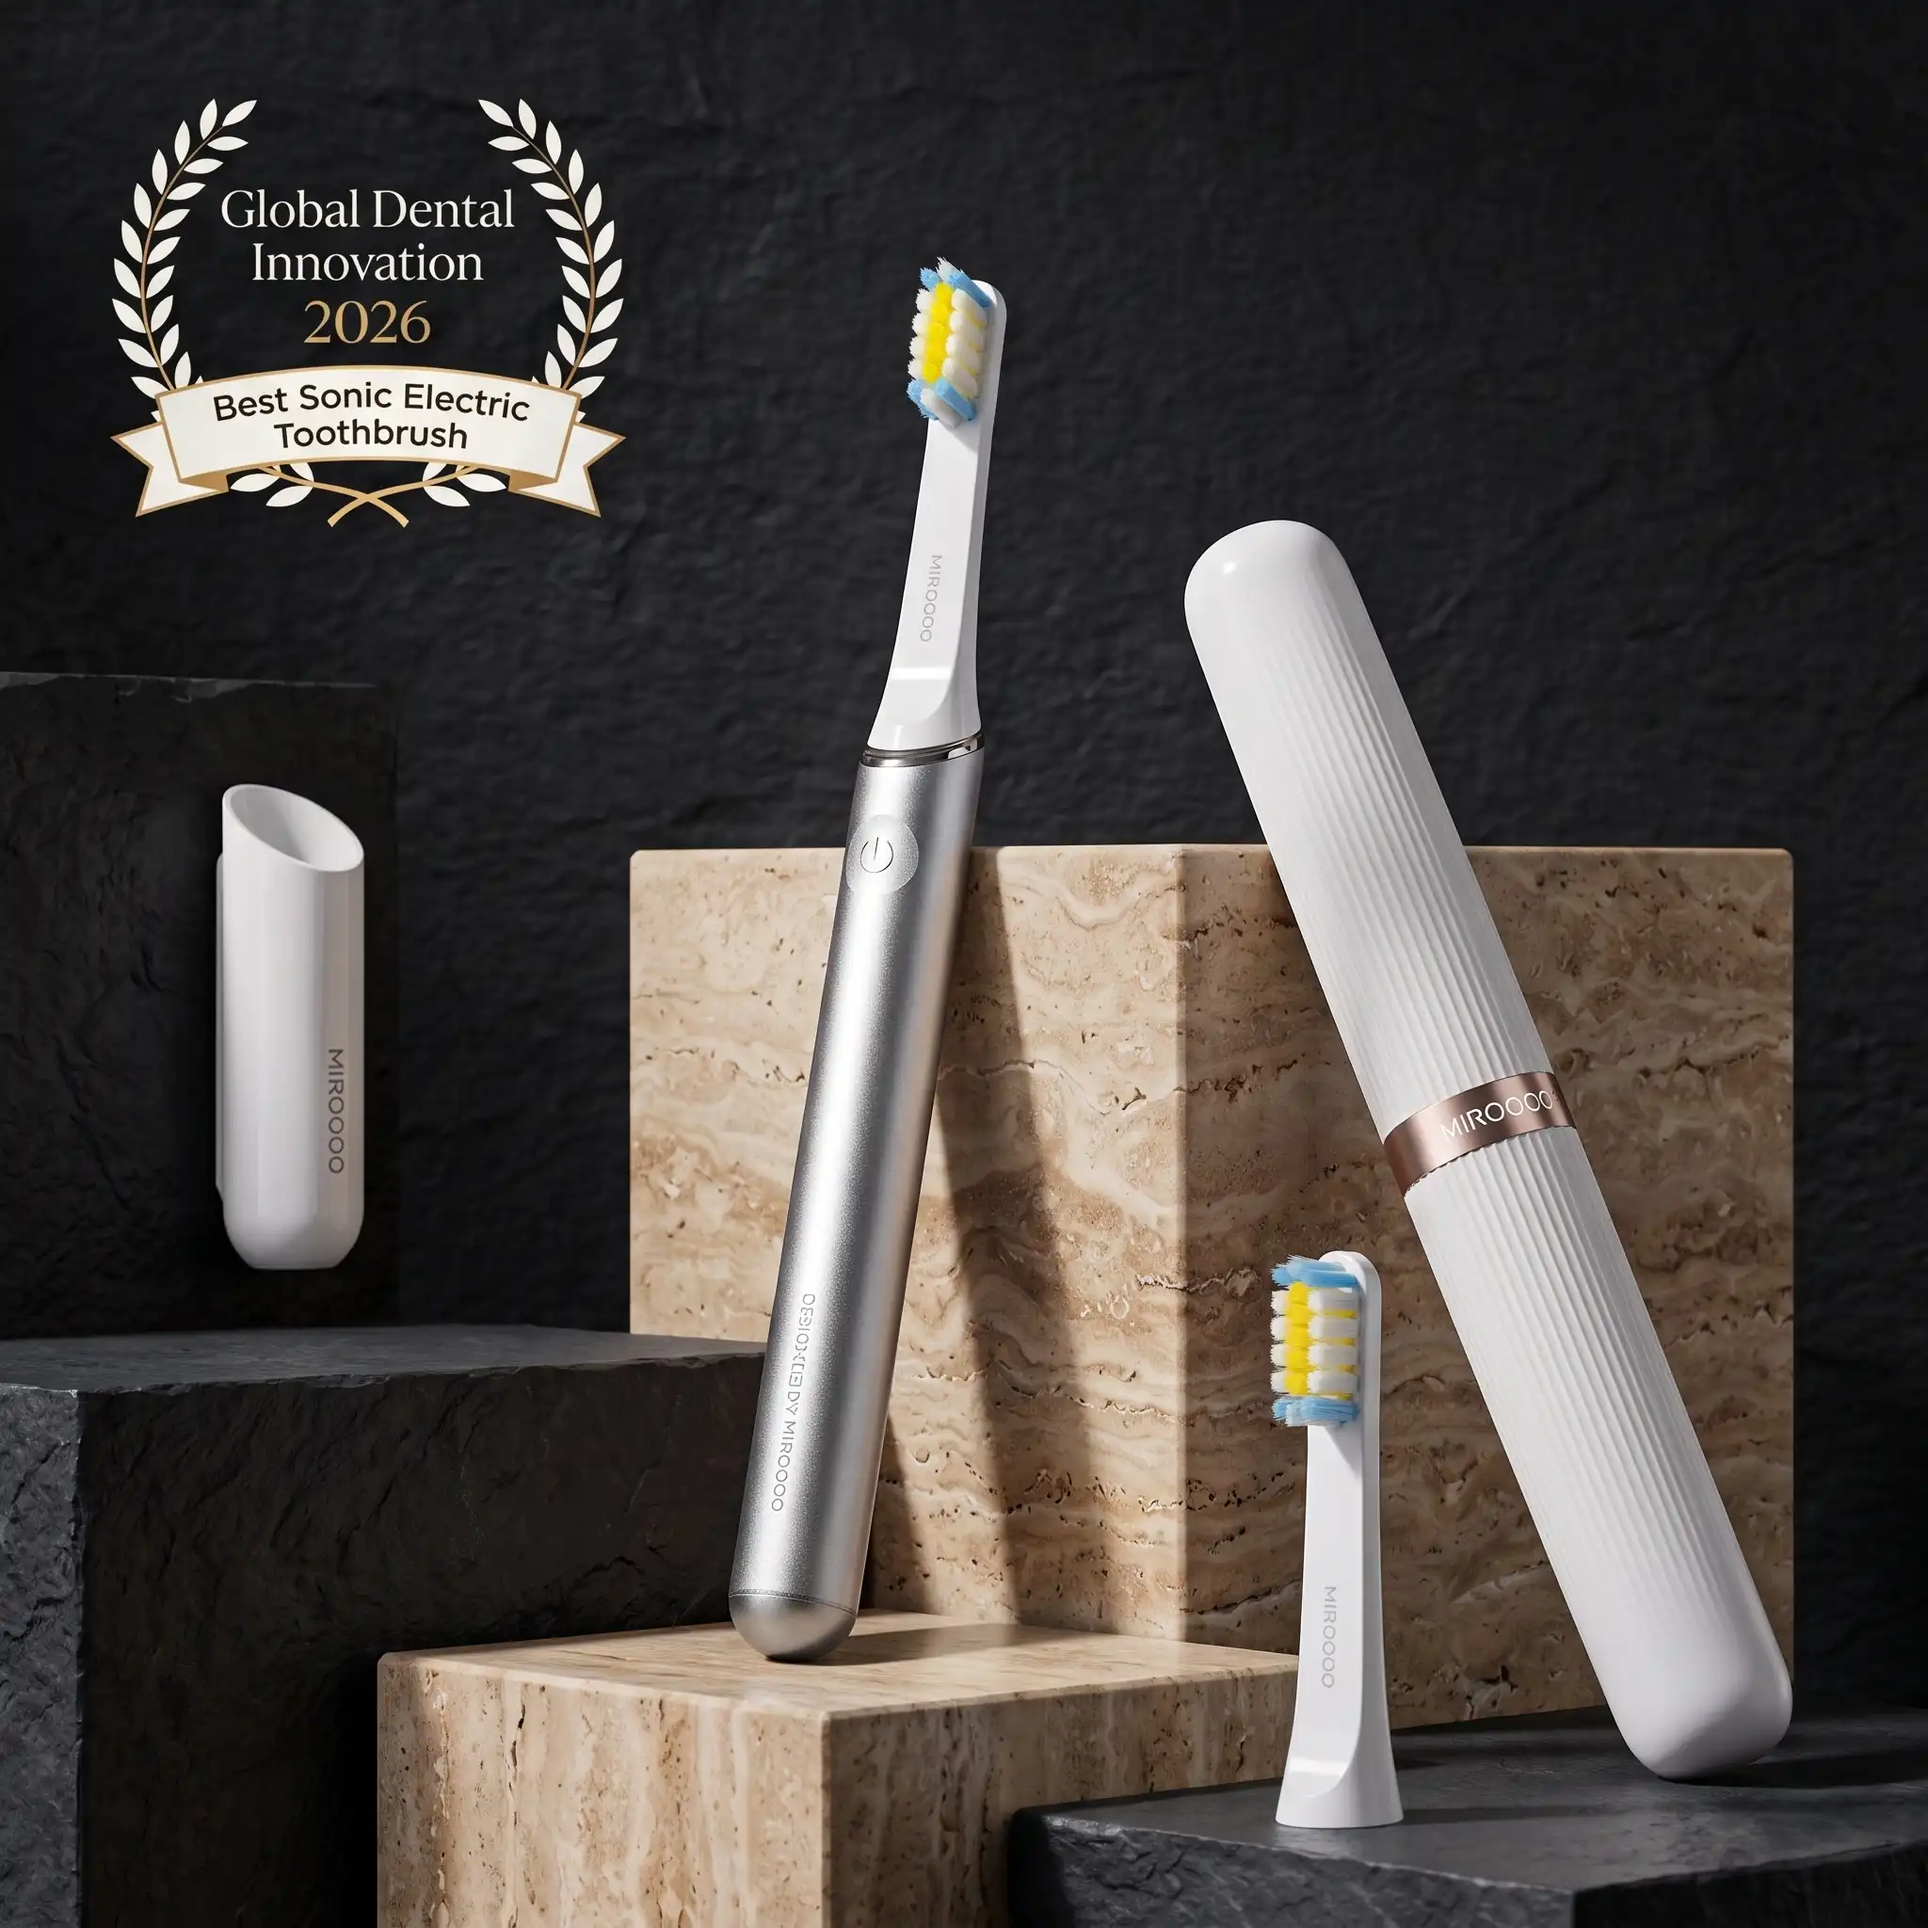
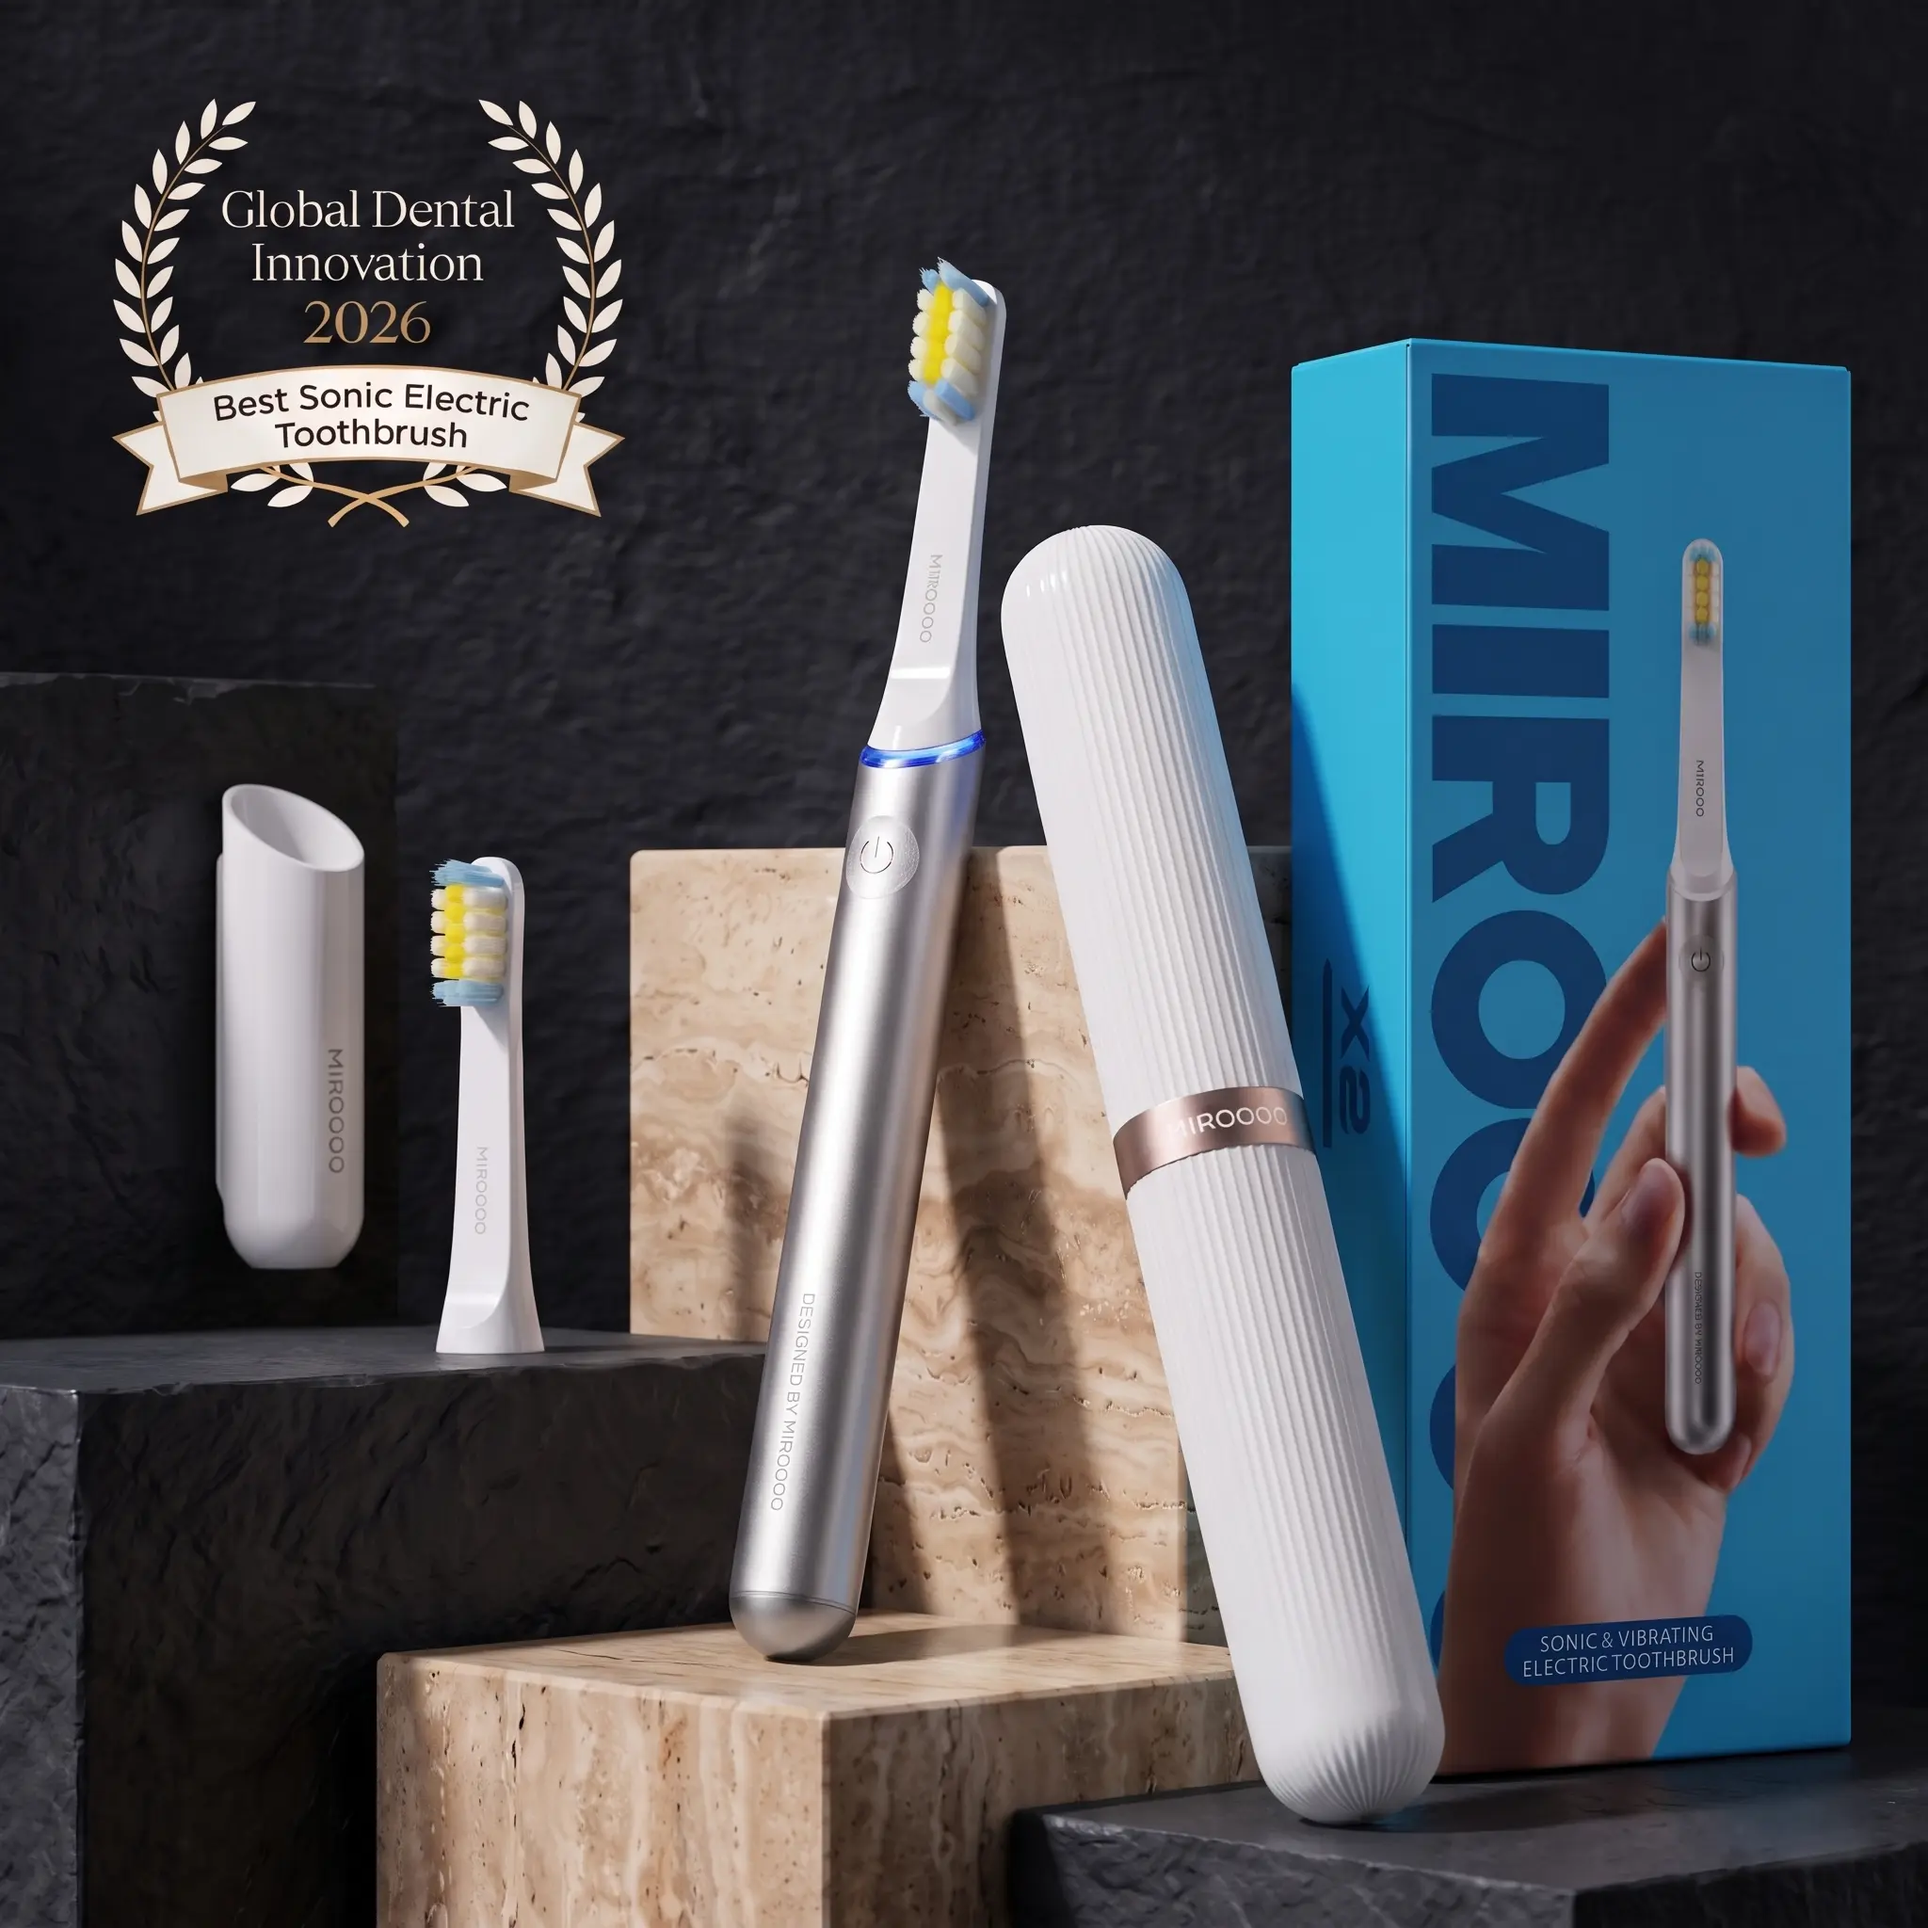
feat(toothbrushes): update #1 Miroooo image across all toothbrush pages with compressed Gemini render

diff --git a/CONTEXT.md b/CONTEXT.md
@@ -11870,3 +11870,57 @@ ext/image unconfigured host 500 error that was crashing the page.
     - Confirmed rendered `alt="Miroooo Brush X2 Sonic Electric Toothbrush with Luxury Travel Case - Dentist&#x27;s Verdict Recommended Electric Toothbrush UK 2026"`.
   - Encoding check: 0 corrupted / mojibake characters.
   - Working tree strictly isolated to `trustpilotreview-shop`. Zero edits outside repository.
+
+
+## 2026-11-12 — Electric Toothbrushes: Replace #1 Product Image Across All Brush Pages with Compressed Gemini Render (Miroooo SEO & GEO Parity)
+
+- **User Intent & Scope Lock**:
+  - Request: `update your memory take pull from github abd change this #1 imaeg everywhere u using this with this image: "E:\1st YEAR DTU\New folder\miroooo_images\Miroooo X2\x2 compressed\Gemini_Generated_Image_rw54hqrw54hqrw54.webp" keeping same name according to miroooo seo and geo, only chaneg this image not above top 5 iamge nor below compare image only this imaeg u using on all brush pages check locally and push clean code on github`
+  - Scope: 100% strictly confined to the #1 Miroooo Brush X2 product card image across all 14 electric toothbrush routes in `trustpilotreview-shop`.
+  - Protected Boundaries:
+    - Above top 5 banner image (`/img/toothbrushes/top-5-electric-toothbrushes-uk.webp`): Strictly preserved / untouched.
+    - Below comparison table / floating card banner (`/img/toothbrushes/miroooo-brush-x2-electric-toothbrush-banner.webp`): Strictly preserved / untouched.
+    - Free gifts (travel case, wall-mounted dock, free brush heads): Strictly preserved / untouched.
+    - All non-toothbrush routes (mask, hair dryer, grounding sheet, flosser, pillow, hearing aid): Strictly preserved / untouched.
+    - Miroooo outbound tracking parameters (`miroooo_outbound_click`, `affiliate_click`, Bing Ads UET tag `211072489`, GTM `GTM-TQ3HRZMJ`, Clarity `w4nply9u93`): Strictly preserved.
+
+- **Starting & Ending Git State**:
+  - Starting: Clean at commit `1fa8af8` on `main` (`origin/main`), verified up to date with remote after `git pull origin main`.
+  - Ending: Working tree modified in `apps/site/public/img/toothbrushes/miroooo-brush-x2-electric-toothbrush.webp`, `img/toothbrushes/miroooo-brush-x2-electric-toothbrush.webp`, and `CONTEXT.md`.
+
+- **Files Updated & Implementation Details**:
+  1. **#1 Product Image Asset Replacement (`apps/site/public/img/toothbrushes/` & `img/toothbrushes/`)**:
[1 lines of base64/hex data omitted]
+     - Replaced Miroooo X2 #1 ranked product image at:
+       - `apps/site/public/img/toothbrushes/miroooo-brush-x2-electric-toothbrush.webp`
+       - `img/toothbrushes/miroooo-brush-x2-electric-toothbrush.webp` (root mirror)
+     - Preserved exact canonical filename `miroooo-brush-x2-electric-toothbrush.webp` adhering to Miroooo SEO and GEO best practices.
+  2. **14 Electric Toothbrush Routes Automatically Synchronized**:
+     - Synchronized seamlessly via `MIROOOO_X_DATASET.image` and `images.mirooooWinner` across all 14 routes:
+       - `/best-electric-toothbrush-uk-2026`
+       - `/best-battery-life-electric-toothbrush-uk-2026`
+       - `/best-electric-toothbrush-for-braces-uk-2026`
+       - `/best-electric-toothbrush-for-sensitive-teeth-uk-2026`
+       - `/best-lightweight-electric-toothbrush-uk-2026`
+       - `/best-quiet-electric-toothbrush-uk-2026`
+       - `/best-travel-electric-toothbrush-uk-2026`
+       - `/miroooo-brush-x-uk-review-2026`
+       - `/miroooo-vs-oral-b-io3`
+       - `/miroooo-vs-oral-b-io6`
+       - `/miroooo-vs-philips-sonicare`
+       - `/miroooo-vs-suri`
+       - `/most-durable-electric-toothbrush-uk-2026`
+       - `/why-switch-from-legacy-electric-toothbrushes-uk`
+
+- **Verification Executed**:
+  - `git pull origin main`: Clean, already up to date.
[1 lines of base64/hex data omitted]
+  - `pnpm --filter @trustpilotreview/site typecheck`: Passed with 0 errors.
+  - `pnpm --filter @trustpilotreview/site lint`: Passed with 0 errors.
+  - `pnpm --filter @trustpilotreview/site build`: Next.js Turbopack build succeeded with 0 errors across all 69 static routes.
+  - `pnpm verify:parity`: Passed.
+  - Local HTTP Server Live Inspection (`next start -p 3009`):
+    - Asset HEAD check: `http://localhost:3009/img/toothbrushes/miroooo-brush-x2-electric-toothbrush.webp` returned `HTTP 200 OK`, `Content-Type: image/webp`, `Content-Length: 132828`.
+    - Route status checks: `HTTP 200 OK` on `/best-electric-toothbrush-uk-2026`, `/miroooo-brush-x-uk-review-2026`, `/miroooo-vs-oral-b-io6`, `/best-lightweight-electric-toothbrush-uk-2026`, and `/why-switch-from-legacy-electric-toothbrushes-uk`.
+  - Mojibake & Encoding Check: 0 corrupted characters.
+  - Commit & Push Status: Staged and pushed cleanly to `origin/main` on GitHub.
